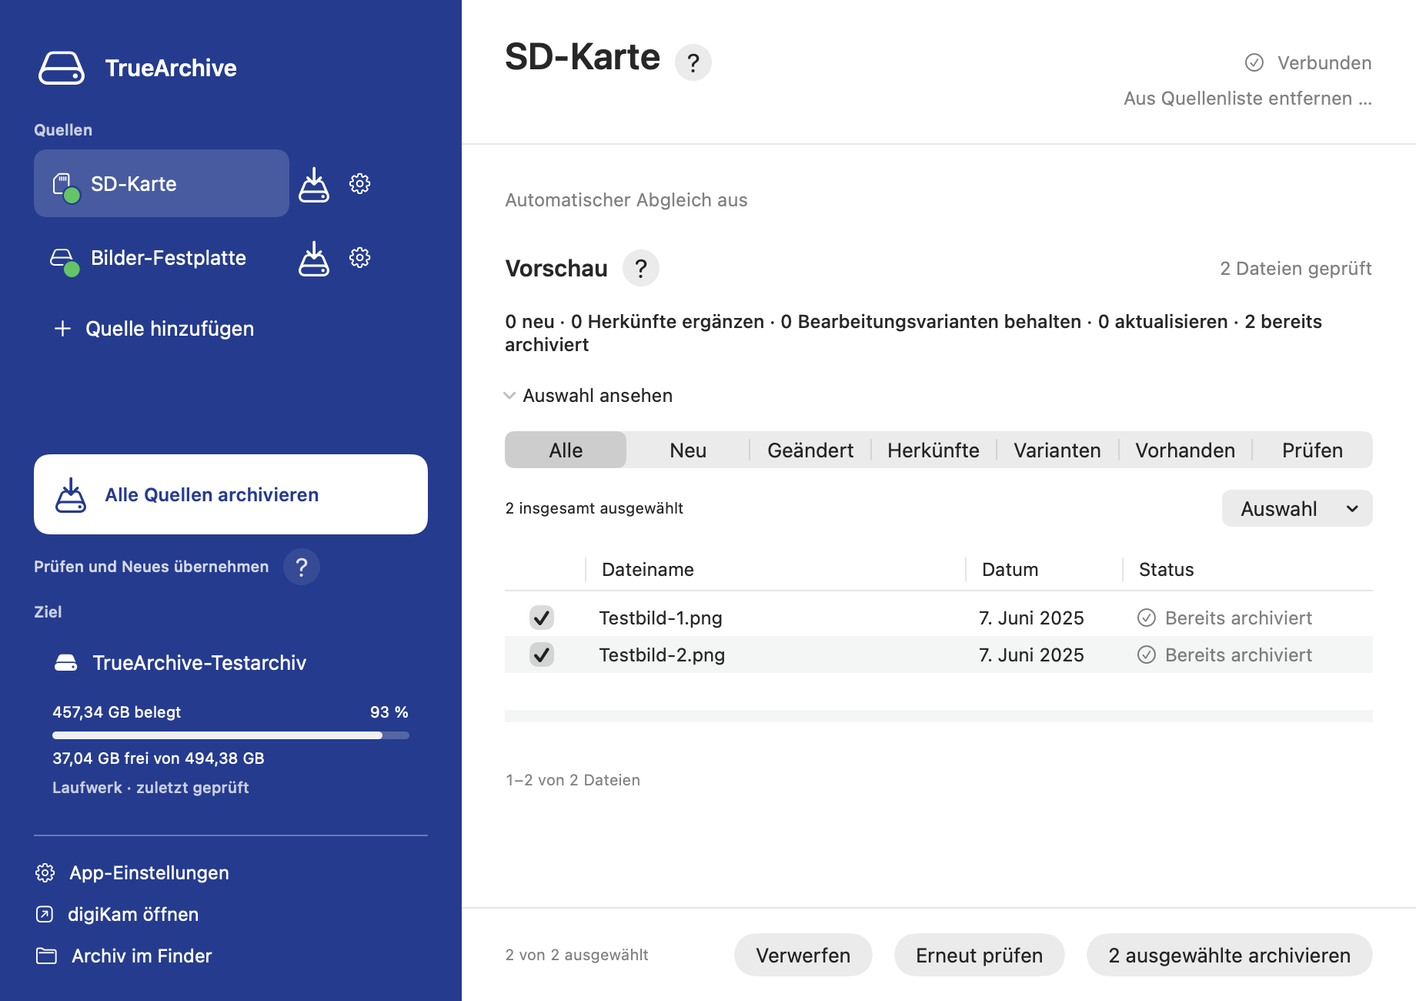
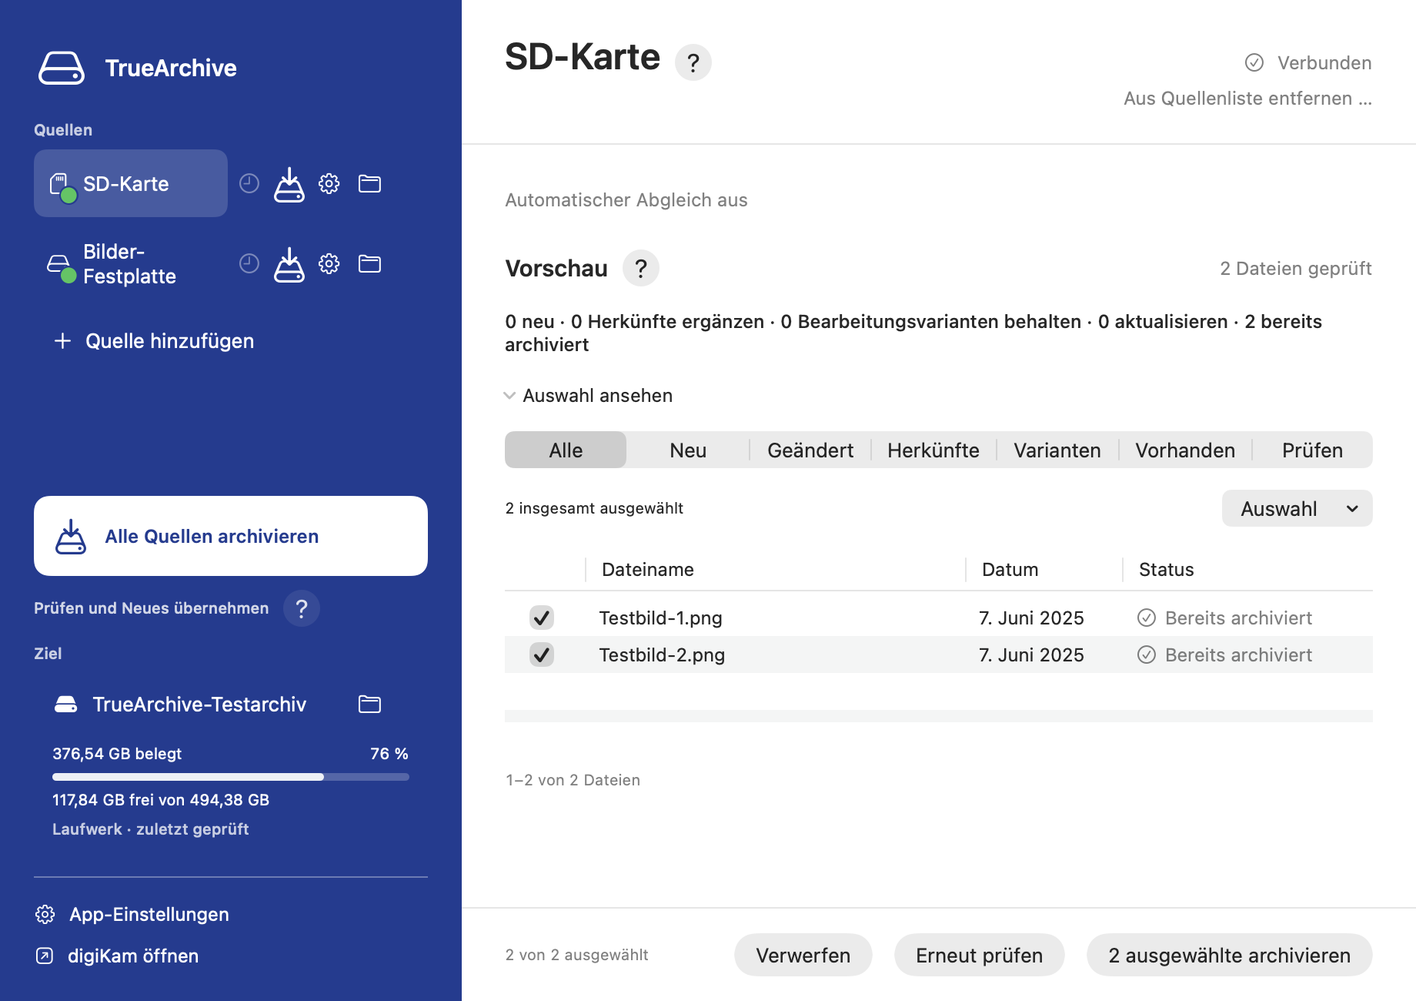
Refresh archive month illustration and document whole-card selection

diff --git a/index.html b/index.html
@@ -52,21 +52,21 @@
           </div>
         </div>
         <figure class="app-figure app-screenshot" aria-labelledby="app-caption">
-          <a href="assets/truearchive-de.png" aria-label="App-Ansicht mit Beispieldaten vergrößern"><img src="assets/truearchive-de.png" width="1840" height="1300" alt="TrueArchive: links zwei verbundene Quellen und der Archivordner, rechts eine Vorschau mit zwei bereits archivierten Beispieldateien." loading="lazy" decoding="async"></a>
-          <figcaption id="app-caption">Die echte TrueArchive-Oberfläche mit Beispieldaten. <a href="assets/truearchive-de.png">Ansicht vergrößern</a></figcaption>
+          <a href="assets/truearchive-de.png?v=0.17.2" aria-label="App-Ansicht mit Beispieldaten vergrößern"><img src="assets/truearchive-de.png?v=0.17.2" width="1840" height="1300" alt="TrueArchive: links zwei verbundene Quellen und der Archivordner, rechts eine Vorschau mit zwei bereits archivierten Beispieldateien." loading="lazy" decoding="async"></a>
+          <figcaption id="app-caption">Die echte TrueArchive-Oberfläche mit Beispieldaten. <a href="assets/truearchive-de.png?v=0.17.2">Ansicht vergrößern</a></figcaption>
         </figure>
         <div class="archive-story">
           <div class="archive-story-visual">
             <h2>Sortiert. Beschrieben.<br>Wiedergefunden.</h2>
             <figure class="archive-example" aria-labelledby="archive-example-caption">
               <div class="archive-window">
-                <div class="archive-window-heading">So liegt es auf deiner Festplatte</div>
+                <div class="archive-window-heading">Jahr → Monat → Tag</div>
                 <div class="archive-tree" role="img" aria-label="Mein Archiv / 2024 / 2024-01 / 2024-01-19 / 19-IMG_1042.jpg + 19-IMG_1042.jpg.xmp, 19-IMG_1043.ARW + 19-IMG_1043.ARW.xmp">
                   <div class="archive-row" style="--depth: 0"><span class="archive-chevron open" aria-hidden="true"></span><span class="folder-icon" aria-hidden="true"></span><span>Mein Archiv</span></div>
                   <div class="archive-row archive-row-stripe" style="--depth: 1"><span class="archive-chevron" aria-hidden="true"></span><span class="folder-icon" aria-hidden="true"></span><span>2023</span></div>
                   <div class="archive-row" style="--depth: 1"><span class="archive-chevron open" aria-hidden="true"></span><span class="folder-icon" aria-hidden="true"></span><span>2024</span></div>
-                  <div class="archive-row" style="--depth: 2"><span class="archive-chevron open" aria-hidden="true"></span><span class="folder-icon" aria-hidden="true"></span><span>2024-01</span></div>
-                  <div class="archive-row archive-row-selected" style="--depth: 3"><span class="archive-chevron open" aria-hidden="true"></span><span class="folder-icon" aria-hidden="true"></span><span>2024-01-19</span></div>
+                  <div class="archive-row archive-row-selected" style="--depth: 2"><span class="archive-chevron open" aria-hidden="true"></span><span class="folder-icon" aria-hidden="true"></span><span>2024-01</span></div>
+                  <div class="archive-row" style="--depth: 3"><span class="archive-chevron open" aria-hidden="true"></span><span class="folder-icon" aria-hidden="true"></span><span>2024-01-19</span></div>
                   <div class="archive-row" style="--depth: 4"><span class="archive-chevron-spacer" aria-hidden="true"></span><svg viewBox="0 0 22 22" aria-hidden="true"><rect x="2" y="2" width="18" height="18" rx="3" fill="#e3efff" stroke="#87a8cf"/><circle cx="15.5" cy="6.5" r="2" fill="#ea8a24"/><path d="m3 16 5-7 4 5 3-3 4 5v3H3Z" fill="#4275b4"/></svg><span>19-IMG_1042.jpg</span></div>
                   <div class="archive-row archive-row-stripe" style="--depth: 4"><span class="archive-chevron-spacer" aria-hidden="true"></span><svg viewBox="0 0 22 22" aria-hidden="true"><path d="M5 1.5h8l5 5v14H5Z" fill="#fff" stroke="#98a6b9"/><path d="M13 1.5v5h5" fill="#e7edf5" stroke="#98a6b9"/><path d="m9 11-2 2 2 2m5-4 2 2-2 2m-2-5-1 6" fill="none" stroke="#3366cc" stroke-width="1.2" stroke-linecap="round" stroke-linejoin="round"/></svg><span>19-IMG_1042.jpg.xmp</span></div>
                   <div class="archive-row" style="--depth: 4"><span class="archive-chevron-spacer" aria-hidden="true"></span><svg viewBox="0 0 22 22" aria-hidden="true"><rect x="2" y="2" width="18" height="18" rx="3" fill="#e3efff" stroke="#87a8cf"/><circle cx="15.5" cy="6.5" r="2" fill="#ea8a24"/><path d="m3 16 5-7 4 5 3-3 4 5v3H3Z" fill="#4275b4"/></svg><span>19-IMG_1043.ARW</span></div>

diff --git a/en/index.html b/en/index.html
@@ -52,21 +52,21 @@
           </div>
         </div>
         <figure class="app-figure app-screenshot" aria-labelledby="app-caption">
-          <a href="../assets/truearchive-en.png" aria-label="Enlarge the app view with sample data"><img src="../assets/truearchive-en.png" width="1840" height="1300" alt="TrueArchive: two connected sources and the archive folder on the left; a preview of two already archived sample files on the right." loading="lazy" decoding="async"></a>
-          <figcaption id="app-caption">The real TrueArchive interface with sample data. <a href="../assets/truearchive-en.png">Enlarge the view</a></figcaption>
+          <a href="../assets/truearchive-en.png?v=0.17.2" aria-label="Enlarge the app view with sample data"><img src="../assets/truearchive-en.png?v=0.17.2" width="1840" height="1300" alt="TrueArchive: two connected sources and the archive folder on the left; a preview of two already archived sample files on the right." loading="lazy" decoding="async"></a>
+          <figcaption id="app-caption">The real TrueArchive interface with sample data. <a href="../assets/truearchive-en.png?v=0.17.2">Enlarge the view</a></figcaption>
         </figure>
         <div class="archive-story">
           <div class="archive-story-visual">
             <h2>Sorted. Described.<br>Found again.</h2>
             <figure class="archive-example" aria-labelledby="archive-example-caption">
               <div class="archive-window">
-                <div class="archive-window-heading">On your hard drive</div>
+                <div class="archive-window-heading">Year → month → day</div>
                 <div class="archive-tree" role="img" aria-label="My archive / 2024 / 2024-01 / 2024-01-19 / 19-IMG_1042.jpg + 19-IMG_1042.jpg.xmp, 19-IMG_1043.ARW + 19-IMG_1043.ARW.xmp">
                   <div class="archive-row" style="--depth: 0"><span class="archive-chevron open" aria-hidden="true"></span><span class="folder-icon" aria-hidden="true"></span><span>My archive</span></div>
                   <div class="archive-row archive-row-stripe" style="--depth: 1"><span class="archive-chevron" aria-hidden="true"></span><span class="folder-icon" aria-hidden="true"></span><span>2023</span></div>
                   <div class="archive-row" style="--depth: 1"><span class="archive-chevron open" aria-hidden="true"></span><span class="folder-icon" aria-hidden="true"></span><span>2024</span></div>
-                  <div class="archive-row" style="--depth: 2"><span class="archive-chevron open" aria-hidden="true"></span><span class="folder-icon" aria-hidden="true"></span><span>2024-01</span></div>
-                  <div class="archive-row archive-row-selected" style="--depth: 3"><span class="archive-chevron open" aria-hidden="true"></span><span class="folder-icon" aria-hidden="true"></span><span>2024-01-19</span></div>
+                  <div class="archive-row archive-row-selected" style="--depth: 2"><span class="archive-chevron open" aria-hidden="true"></span><span class="folder-icon" aria-hidden="true"></span><span>2024-01</span></div>
+                  <div class="archive-row" style="--depth: 3"><span class="archive-chevron open" aria-hidden="true"></span><span class="folder-icon" aria-hidden="true"></span><span>2024-01-19</span></div>
                   <div class="archive-row" style="--depth: 4"><span class="archive-chevron-spacer" aria-hidden="true"></span><svg viewBox="0 0 22 22" aria-hidden="true"><rect x="2" y="2" width="18" height="18" rx="3" fill="#e3efff" stroke="#87a8cf"/><circle cx="15.5" cy="6.5" r="2" fill="#ea8a24"/><path d="m3 16 5-7 4 5 3-3 4 5v3H3Z" fill="#4275b4"/></svg><span>19-IMG_1042.jpg</span></div>
                   <div class="archive-row archive-row-stripe" style="--depth: 4"><span class="archive-chevron-spacer" aria-hidden="true"></span><svg viewBox="0 0 22 22" aria-hidden="true"><path d="M5 1.5h8l5 5v14H5Z" fill="#fff" stroke="#98a6b9"/><path d="M13 1.5v5h5" fill="#e7edf5" stroke="#98a6b9"/><path d="m9 11-2 2 2 2m5-4 2 2-2 2m-2-5-1 6" fill="none" stroke="#3366cc" stroke-width="1.2" stroke-linecap="round" stroke-linejoin="round"/></svg><span>19-IMG_1042.jpg.xmp</span></div>
                   <div class="archive-row" style="--depth: 4"><span class="archive-chevron-spacer" aria-hidden="true"></span><svg viewBox="0 0 22 22" aria-hidden="true"><rect x="2" y="2" width="18" height="18" rx="3" fill="#e3efff" stroke="#87a8cf"/><circle cx="15.5" cy="6.5" r="2" fill="#ea8a24"/><path d="m3 16 5-7 4 5 3-3 4 5v3H3Z" fill="#4275b4"/></svg><span>19-IMG_1043.ARW</span></div>

diff --git a/anleitung.html b/anleitung.html
@@ -3,7 +3,7 @@
 <head>
   <meta charset="utf-8">
   <meta name="viewport" content="width=device-width, initial-scale=1">
-  <meta name="description" content="TrueArchive für Mac installieren, alle Quellen archivieren und Quelllaufwerke sicher trennen. Handbuch für Alpha 0.17.1 mit Monatsordnern, Duplikaten, Nitro-Bearbeitungen und Google Takeout.">
+  <meta name="description" content="TrueArchive für Mac installieren, alle Quellen archivieren und Quelllaufwerke sicher trennen. Handbuch für Alpha 0.17.2 mit Monatsordnern, Duplikaten, Nitro-Bearbeitungen und Google Takeout.">
   <meta name="robots" content="noindex, nofollow">
   <meta name="theme-color" content="#1E3C93">
   <title>Handbuch – TrueArchive</title>
@@ -22,7 +22,7 @@
   </header>
 
   <main id="inhalt" class="wrap">
-    <div class="guide-heading"><h1>Das TrueArchive-Handbuch.</h1><p>Quellen verbinden, Archiv wählen, Abgleich starten.</p><p>Die „?“-Buttons in der App öffnen direkt das passende Kapitel. Weiter unten findest du die <a href="#release-notes">Release Notes und frühere Versionen</a>.</p><p class="guide-version">Handbuch für Alpha 0.17.1 · Build 36 · lokaler Testkandidat, noch nicht veröffentlicht.</p></div>
+    <div class="guide-heading"><h1>Das TrueArchive-Handbuch.</h1><p>Quellen verbinden, Archiv wählen, Abgleich starten.</p><p>Die „?“-Buttons in der App öffnen direkt das passende Kapitel. Weiter unten findest du die <a href="#release-notes">Release Notes und frühere Versionen</a>.</p><p class="guide-version">Handbuch für Alpha 0.17.2 · Build 37 · lokaler Testkandidat, noch nicht veröffentlicht.</p></div>
     <div class="guide-layout">
       <nav class="guide-nav" aria-label="Im Handbuch"><a href="#installation">Installieren</a><a href="#updates">App-Updates</a><a href="#sprache">Sprache wählen</a><a href="#einrichtung">Das erste Archiv</a><a href="#arbeitsbereich">Quellen und Ziel</a><a href="#alle-quellen">Alle Quellen archivieren</a><a href="#google-photos">Google Fotos (Takeout)</a><a href="#monatsordner">Monatsordner</a><a href="#duplikate">Duplikate und Nitro</a><a href="#vision">Automatische Schlagwörter</a><a href="#details">Fragen und Details</a><a href="#release-notes">Release Notes</a><a href="#hilfe">Bei Problemen</a></nav>
       <div class="guide-content">
@@ -202,6 +202,7 @@
 
           <details id="sd-karte">
             <summary>Wie übernehme ich Karten und lokale Ordner?</summary>
+            <p><strong>Ganze Karte oder einzelne Ordner:</strong> Über „Quelle hinzufügen → SD-Karte“ wählst du ab 0.17.2 direkt bei den Laufwerken die ganze Karte oder einen Ordner darauf. Bei Festplatten gilt dasselbe. Unterordner sind zunächst eingeschlossen. Ist etwa „DCIM“ bereits als Quelle eingerichtet, warte das Ende einer laufenden Übernahme ab und entferne zunächst nur diese Verbindung aus der Quellenliste. Danach kannst du die ganze Karte hinzufügen. Dateien auf Karte und Archiv bleiben erhalten.</p>
             <p>Füge über <strong>+</strong> eine SD-Karte, Festplatte oder weitere lokale Ordner hinzu. Mehrere Ordner lassen sich gleichzeitig wählen. Quellen dürfen auch auf FAT oder exFAT liegen; Quelle und Archiv müssen getrennt sein.</p>
             <p>Für eine direkte Übernahme dieser Quelle nutze das <strong>Festplatten-Pfeil-Symbol „Jetzt archivieren“</strong> neben ihrem Namen. „Alle Quellen archivieren“ übernimmt dagegen alle verbundenen Quellen. Für eine gezielte Übernahme klicke auf eine einzelne lokale Quelle und erstelle ihre Vorschau; dort wählst du Dateien aus und klärst offene Metadatenfälle. Über das <strong>Zahnrad neben der Quelle</strong> entscheidest du, ob Unterordner dazugehören. Die Vorschau prüft den gewählten Umfang; die Einrichtung selbst startet keine Probeübernahme.</p>
             <p>Filter und Seitenwechsel helfen bei großen Beständen. Prüfe neue Dateien, Änderungen und offene Fälle, bevor du <strong>„ausgewählte archivieren“</strong> startest. Eine erneute Prüfung erkennt passende bereits archivierte Medien wieder.</p>

diff --git a/release-notes.html b/release-notes.html
@@ -28,8 +28,16 @@
       <p>Neue Funktionen, Korrekturen und wichtige Hinweise zu jedem neuen Release. Die neueste Version steht zuerst.</p>
     </div>
     <div class="guide-layout">
-      <nav class="guide-nav" aria-label="Versionen"><a href="anleitung.html#release-notes">Zum Handbuch</a><a href="#v0-17-1">0.17.1 · Kandidat: Vorhandene Ordner direkt nutzen</a><a href="#v0-17-0">0.17.0 · Kandidat: Vorhandene Bildsammlungen</a><a href="#v0-16-0">0.16.0 · Schlagwörter auf Deutsch und Englisch</a><a href="#v0-15-1">0.15.1 · Einfachere Archivansicht</a><a href="#v0-15-0">0.15.0 · Schlagwörter für Videos</a><a href="#v0-14-0">0.14.0 · Kandidat: Monatsordner</a><a href="#v0-13-1">0.13.1 · Quellen bedienen</a><a href="#v0-13-0">0.13.0 · Google Fotos</a><a href="#v0-12-1">0.12.1</a><a href="#v0-12-0">0.12.0 · Deutsch und Englisch</a><a href="#v0-11-1">0.11.1</a><a href="#v0-11-0">0.11.0 · Direkt in der App starten</a><a href="#v0-10-3">0.10.3 · Quellen direkt bedienen</a><a href="#v0-10-2">0.10.2 · Berichte bei den Quellen</a><a href="#v0-10-1">0.10.1 · Stabilere Menüleiste</a><a href="#v0-10-0">0.10.0 · Duplikate und Nitro-Varianten</a><a href="#v0-9-0">0.9.0 · Alle Quellen archivieren</a><a href="#v0-8-1">0.8.1 · Einfacher einrichten</a><a href="#v0-8-0">0.8.0 · Unbegrenzter Fotos-Abgleich</a><a href="#v0-7-1">0.7.1 · Robustere Fotos-Abgleiche</a><a href="#v0-7-0">0.7.0 · Übersicht und Vorschau</a><a href="#v0-6-0">0.6.0 · App-Updates</a><a href="#fruehere-versionen">Frühere Versionen</a></nav>
+      <nav class="guide-nav" aria-label="Versionen"><a href="anleitung.html#release-notes">Zum Handbuch</a><a href="#v0-17-2">0.17.2 · Kandidat: Ganze Karten wählen</a><a href="#v0-17-1">0.17.1 · Kandidat: Vorhandene Ordner direkt nutzen</a><a href="#v0-17-0">0.17.0 · Kandidat: Vorhandene Bildsammlungen</a><a href="#v0-16-0">0.16.0 · Schlagwörter auf Deutsch und Englisch</a><a href="#v0-15-1">0.15.1 · Einfachere Archivansicht</a><a href="#v0-15-0">0.15.0 · Schlagwörter für Videos</a><a href="#v0-14-0">0.14.0 · Kandidat: Monatsordner</a><a href="#v0-13-1">0.13.1 · Quellen bedienen</a><a href="#v0-13-0">0.13.0 · Google Fotos</a><a href="#v0-12-1">0.12.1</a><a href="#v0-12-0">0.12.0 · Deutsch und Englisch</a><a href="#v0-11-1">0.11.1</a><a href="#v0-11-0">0.11.0 · Direkt in der App starten</a><a href="#v0-10-3">0.10.3 · Quellen direkt bedienen</a><a href="#v0-10-2">0.10.2 · Berichte bei den Quellen</a><a href="#v0-10-1">0.10.1 · Stabilere Menüleiste</a><a href="#v0-10-0">0.10.0 · Duplikate und Nitro-Varianten</a><a href="#v0-9-0">0.9.0 · Alle Quellen archivieren</a><a href="#v0-8-1">0.8.1 · Einfacher einrichten</a><a href="#v0-8-0">0.8.0 · Unbegrenzter Fotos-Abgleich</a><a href="#v0-7-1">0.7.1 · Robustere Fotos-Abgleiche</a><a href="#v0-7-0">0.7.0 · Übersicht und Vorschau</a><a href="#v0-6-0">0.6.0 · App-Updates</a><a href="#fruehere-versionen">Frühere Versionen</a></nav>
       <div class="guide-content release-notes">
+        <section id="v0-17-2" aria-labelledby="v0-17-2-title">
+          <h2 id="v0-17-2-title">0.17.2 · Ganze Karten und Festplatten wählen</h2>
+          <p>Build 37 · lokaler Alpha-Kandidat · <time datetime="2026-09-11">11. September 2026</time></p>
+          <p>Noch nicht veröffentlicht. Der öffentliche App-Download bleibt 0.16.0.</p>
+          <p>Die Auswahl für SD-Karten und Festplatten beginnt direkt bei den Laufwerken. Du kannst den gesamten Datenträger oder einzelne Ordner darauf auswählen. Bereits eingebundene Unterordner und ganze Karten werden weiterhin nicht doppelt eingerichtet.</p>
+          <p><a href="anleitung.html#sd-karte">Karten und Festplatten einbinden</a></p>
+        </section>
+
         <section id="v0-17-1" aria-labelledby="v0-17-1-title">
           <h2 id="v0-17-1-title">0.17.1 · Vorhandene Ordner direkt nutzen</h2>
           <p>Build 36 · lokaler Alpha-Kandidat · <time datetime="2026-09-11">11. September 2026</time></p>

diff --git a/en/anleitung.html b/en/anleitung.html
@@ -3,7 +3,7 @@
 <head>
   <meta charset="utf-8">
   <meta name="viewport" content="width=device-width, initial-scale=1">
-  <meta name="description" content="Install TrueArchive for Mac, archive all sources and safely disconnect source drives. Handbook for Alpha 0.17.1, covering monthly folders, duplicates, Nitro edits and Google Takeout.">
+  <meta name="description" content="Install TrueArchive for Mac, archive all sources and safely disconnect source drives. Handbook for Alpha 0.17.2, covering monthly folders, duplicates, Nitro edits and Google Takeout.">
   <meta name="robots" content="noindex, nofollow">
   <meta name="theme-color" content="#1E3C93">
   <title>Handbook – TrueArchive</title>
@@ -22,7 +22,7 @@
   </header>
 
   <main id="inhalt" class="wrap">
-    <div class="guide-heading"><h1>The TrueArchive handbook.</h1><p>Connect sources, choose an archive, start a sync.</p><p>The app’s “?” buttons open the relevant chapter directly. Further down, you will find the <a href="#release-notes">release notes and earlier versions</a>.</p><p class="guide-version">Handbook for Alpha 0.17.1 · Build 36 · local test candidate, not yet published.</p></div>
+    <div class="guide-heading"><h1>The TrueArchive handbook.</h1><p>Connect sources, choose an archive, start a sync.</p><p>The app’s “?” buttons open the relevant chapter directly. Further down, you will find the <a href="#release-notes">release notes and earlier versions</a>.</p><p class="guide-version">Handbook for Alpha 0.17.2 · Build 37 · local test candidate, not yet published.</p></div>
     <div class="guide-layout">
       <nav class="guide-nav" aria-label="In this handbook"><a href="#installation">Installation</a><a href="#updates">App updates</a><a href="#sprache">Choose language</a><a href="#einrichtung">Your first archive</a><a href="#arbeitsbereich">Sources and destination</a><a href="#alle-quellen">Archive all sources</a><a href="#google-photos">Google Photos (Takeout)</a><a href="#monatsordner">Monthly folders</a><a href="#duplikate">Duplicates and Nitro</a><a href="#vision">Automatic keywords</a><a href="#details">Questions and details</a><a href="#release-notes">Release Notes</a><a href="#hilfe">Troubleshooting</a></nav>
       <div class="guide-content">
@@ -202,6 +202,7 @@
 
           <details id="sd-karte">
             <summary>How do I import cards and local folders?</summary>
+            <p><strong>Entire card or individual folders:</strong> From 0.17.2, “Add source → SD card” opens the drive list so you can select the whole card or a folder on it. The same applies to external drives. Subfolders are included by default. If a folder such as “DCIM” is already configured, wait for any active import to finish and remove only that connection from the source list before adding the entire card. Files on the card and in the archive remain intact.</p>
             <p>Use <strong>+</strong> to add an SD card, drive or more local folders. You can select several folders at once. Sources can also use FAT or exFAT; source and archive must be separate.</p>
             <p>To import this source directly, use the <strong>“Archive now” drive-and-arrow icon</strong> next to its name. “Archive all sources” imports all connected sources. For a specific selection, click an individual local source and create its preview; select files and resolve open metadata cases there. Use the <strong>gear next to the source</strong> to choose whether to include subfolders. The preview checks the selected scope; setup itself does not start a trial import.</p>
             <p>Filters and page navigation help with large collections. Check new files, changes and unresolved cases before starting <strong>“Archive Selected”</strong> . Checking again recognizes matching media that is already archived.</p>

diff --git a/en/release-notes.html b/en/release-notes.html
@@ -28,8 +28,16 @@
       <p>New features, fixes and important information for every new release. The newest version comes first.</p>
     </div>
     <div class="guide-layout">
-      <nav class="guide-nav" aria-label="Versions"><a href="anleitung.html#release-notes">Back to the handbook</a><a href="#v0-17-1">0.17.1 · Candidate: Use existing folders directly</a><a href="#v0-17-0">0.17.0 · Candidate: Existing photo collections</a><a href="#v0-16-0">0.16.0 · German and English keywords</a><a href="#v0-15-1">0.15.1 · Simpler archive page</a><a href="#v0-15-0">0.15.0 · Video keywords</a><a href="#v0-14-0">0.14.0 · Candidate: monthly folders</a><a href="#v0-13-1">0.13.1 · Source controls</a><a href="#v0-13-0">0.13.0 · Google Photos</a><a href="#v0-12-1">0.12.1</a><a href="#v0-12-0">0.12.0 · German and English</a><a href="#v0-11-1">0.11.1</a><a href="#v0-11-0">0.11.0 · Start directly in the app</a><a href="#v0-10-3">0.10.3 · Control sources directly</a><a href="#v0-10-2">0.10.2 · Reports on source pages</a><a href="#v0-10-1">0.10.1 · A more stable menu bar</a><a href="#v0-10-0">0.10.0 · Duplicates and Nitro variants</a><a href="#v0-9-0">0.9.0 · Archive all sources</a><a href="#v0-8-1">0.8.1 · Easier setup</a><a href="#v0-8-0">0.8.0 · Unlimited Photos sync</a><a href="#v0-7-1">0.7.1 · More robust Photos syncs</a><a href="#v0-7-0">0.7.0 · Overview and preview</a><a href="#v0-6-0">0.6.0 · App updates</a><a href="#fruehere-versionen">Earlier versions</a></nav>
+      <nav class="guide-nav" aria-label="Versions"><a href="anleitung.html#release-notes">Back to the handbook</a><a href="#v0-17-2">0.17.2 · Candidate: Choose whole cards</a><a href="#v0-17-1">0.17.1 · Candidate: Use existing folders directly</a><a href="#v0-17-0">0.17.0 · Candidate: Existing photo collections</a><a href="#v0-16-0">0.16.0 · German and English keywords</a><a href="#v0-15-1">0.15.1 · Simpler archive page</a><a href="#v0-15-0">0.15.0 · Video keywords</a><a href="#v0-14-0">0.14.0 · Candidate: monthly folders</a><a href="#v0-13-1">0.13.1 · Source controls</a><a href="#v0-13-0">0.13.0 · Google Photos</a><a href="#v0-12-1">0.12.1</a><a href="#v0-12-0">0.12.0 · German and English</a><a href="#v0-11-1">0.11.1</a><a href="#v0-11-0">0.11.0 · Start directly in the app</a><a href="#v0-10-3">0.10.3 · Control sources directly</a><a href="#v0-10-2">0.10.2 · Reports on source pages</a><a href="#v0-10-1">0.10.1 · A more stable menu bar</a><a href="#v0-10-0">0.10.0 · Duplicates and Nitro variants</a><a href="#v0-9-0">0.9.0 · Archive all sources</a><a href="#v0-8-1">0.8.1 · Easier setup</a><a href="#v0-8-0">0.8.0 · Unlimited Photos sync</a><a href="#v0-7-1">0.7.1 · More robust Photos syncs</a><a href="#v0-7-0">0.7.0 · Overview and preview</a><a href="#v0-6-0">0.6.0 · App updates</a><a href="#fruehere-versionen">Earlier versions</a></nav>
       <div class="guide-content release-notes">
+        <section id="v0-17-2" aria-labelledby="v0-17-2-title">
+          <h2 id="v0-17-2-title">0.17.2 · Choose entire cards and drives</h2>
+          <p>Build 37 · local alpha candidate · <time datetime="2026-09-11">11 September 2026</time></p>
+          <p>Not yet published. The public app download remains 0.16.0.</p>
+          <p>The SD-card and external-drive picker opens directly at the drive list. Choose the entire device or individual folders on it. An already configured subfolder and its whole card still cannot be added as overlapping sources.</p>
+          <p><a href="anleitung.html#sd-karte">Add cards and drives</a></p>
+        </section>
+
         <section id="v0-17-1" aria-labelledby="v0-17-1-title">
           <h2 id="v0-17-1-title">0.17.1 · Use existing folders directly</h2>
           <p>Build 36 · local alpha candidate · <time datetime="2026-09-11">11 September 2026</time></p>
